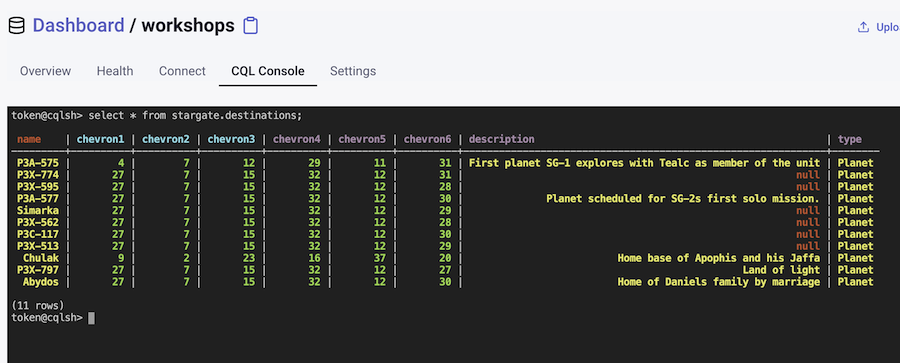
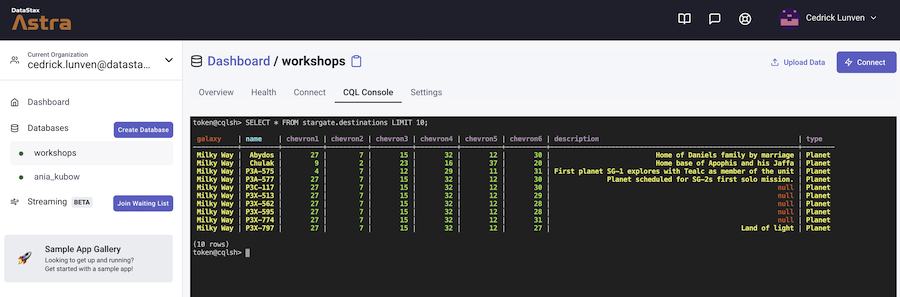
loader

diff --git a/README.md b/README.md
@@ -185,42 +185,105 @@ Inserting a couple of values with CQLSH is great but quite verbose right ? we cr
 
 In Astra there is a tool too speed up that process and both create and import data from a CSV.
 
-✅ **Step 3a: Open Astra Data Loader**
+✅ **Step 3a: Download the dataset**
+
+Click the following button to download the DATASET. 
+
+> *If the file open in the browser save it with the name `destinations.csv`. This is important as the filename will be the table name.*
+
+<p align="left">
+<a href="https://raw.githubusercontent.com/datastaxdevs/workshop-spring-stargate/main/dataset/destinations.csv">
+ <img src="https://dabuttonfactory.com/button.png?t=Download Dataset&f=Roboto-Bold&ts=26&tc=fff&hp=45&vp=20&c=11&bgt=unicolored&bgc=15d798" />
+</a>
+</p>
+
+✅ **Step 3b: Open Astra Data Loader**
 
 Locate the `Upload Data` button to open the Data Loader.
 
 ![#](images/tutorials/dataloader-01-button.png)
 
-✅ **Step 3b: Upload the CSV file**
+✅ **Step 3c: Upload the dataset**
 
-Click the following button to download the DATASET.
-
-
-
-Click on the area *Drag n drop... * and look for the file `destinations.csv` 
+Click on the area *Drag n drop a single file* and look for the file `destinations.csv` on your machine, this file has been downloaded in step **3a**.
 
 ![#](images/tutorials/dataloader-02-upload.png)
 
+Once the file has been upload notive the `Upload Successful` message in green. You can now click `NEXT`
+
+✅ **Step 3d: Define the target table**
+
+- Locate the field Table Name and make sure it is set to `destinations`
+
 ![#](images/tutorials/dataloader-03-parsed.png)
+
+Scroll down to show the the **Keys and Clustering** part of the screen and enter the following 
+
+- `galaxy` will be our partition key (assuming there are less than 100.000 stargate in our galaxy) and a lot of galaxy ^^.
+
+- `name` will be our clustering key in order to ensure unicity.
+
+- You can now click `NEXT`
+
 ![#](images/tutorials/dataloader-04-datamodel.png)
+
+✅ **Step 3e: Define the target keyspace**
+
+- In the **Target Keyspace** combo box find and select our keyspace `stargate`
+
+- Then click `NEXT`
+
 ![#](images/tutorials/dataloader-05-keyspace.png)
+
+✅ **Step 3f: Show Data**
+
+You will get an email informing you that the batch has been scheduled.
+
 ![#](images/tutorials/dataloader-06-mail1.png)
+
+A few seconds later your get another email to tell you the data has been inserted.
+
 ![#](images/tutorials/dataloader-07-mail2.png)
+
+Using the CQL Console enter now the CQL command command from the email:
+
+```sql
+SELECT * FROM stargate.destinations LIMIT 10
+```
+
+**👁 Expected output**
 ![#](images/tutorials/dataloader-08-data.png)
 
+❓ Find the CQL Command to give us the coordinates in order to go on planet Chulak in our galaxy.
 
+<details><summary><b>Click to view Solution</b></summary>
+<p>
 
+```sql
+SELECT chevron1,chevron2,chevron3,chevron4,chevron5,chevron6 FROM stargate.destinations WHERE galaxy='Milky Way' and name='Chulak';
+```
 
+</p>
+</details>
 
+ Yes now we do have the cartouche `9,2,23,16,37,20`
 
+![#](images/glyphs/009glyph-scorpio.jpg?raw=true)
+![#](images/glyphs/002glyph-crater.jpg?raw=true)
+![#](images/glyphs/023glyph-triangulum.jpg?raw=true)
+![#](images/glyphs/016glyph-piscesaustrinus.jpg?raw=true)
+![#](images/glyphs/037glyph-sextans.jpg?raw=true)
+![#](images/glyphs/020glyph-sculptor.jpg?raw=true) XXXXX  ![#](images/glyphs/001glyph-earth.jpg?raw=true)
 
 ## 4. Create Astra Token
 
-To interact with our new created database through code and programming we need to create some credentials.
+🎉🎉 **Congratulations** we do have both chevrons and coordinates of our destination. 
+
+To save *Teal'c* from *Apophysis* we still need to create a **token** that we will use as our credentials.
 
 ✅ **Step 4a: Generate Token**
 
-- Following the [Documentation](https://docs.datastax.com/en/astra/docs/manage-application-tokens.html) create a token with `Database Admnistrator` roles.
+Following the [Documentation](https://docs.datastax.com/en/astra/docs/manage-application-tokens.html) create a token with `Database Admnistrator` roles.
 
 - Go the `Organization Settings`
 
@@ -228,7 +291,10 @@ To interact with our new created database through code and programming we need t
 
 - Pick the role `Database Admnistrator` on the select box
 
+- Click Generate token
+
 **👁 Walkthrough**
+
 ![image](images/tutorials/astra-create-token.gif?raw=true)
 
 This is what the token page looks like. You can now download the values as a CSV. We will need those values but you can also keep this window open.
@@ -242,6 +308,8 @@ Notice the clipboard icon at the end of each value.
 - `clientSecret:` We will use it as a password to contact Cassandra
 
 - `appToken:` We will use it as a api Key to interact with APIS.
+
+To know more about roles of each token you can have a look to [this video.](https://www.youtube.com/watch?v=nRqu44W-bMU)
 
 ## 4. Launch Gitpod
 
